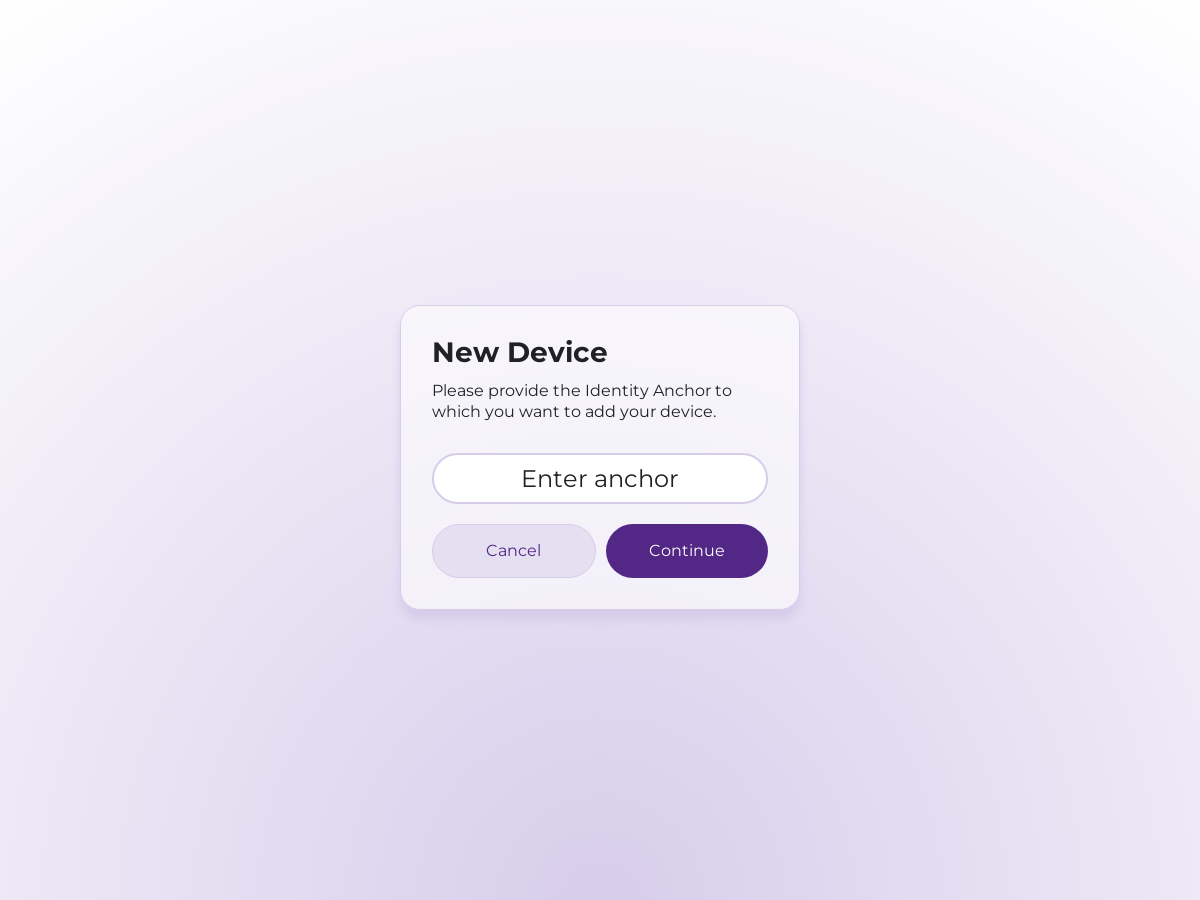
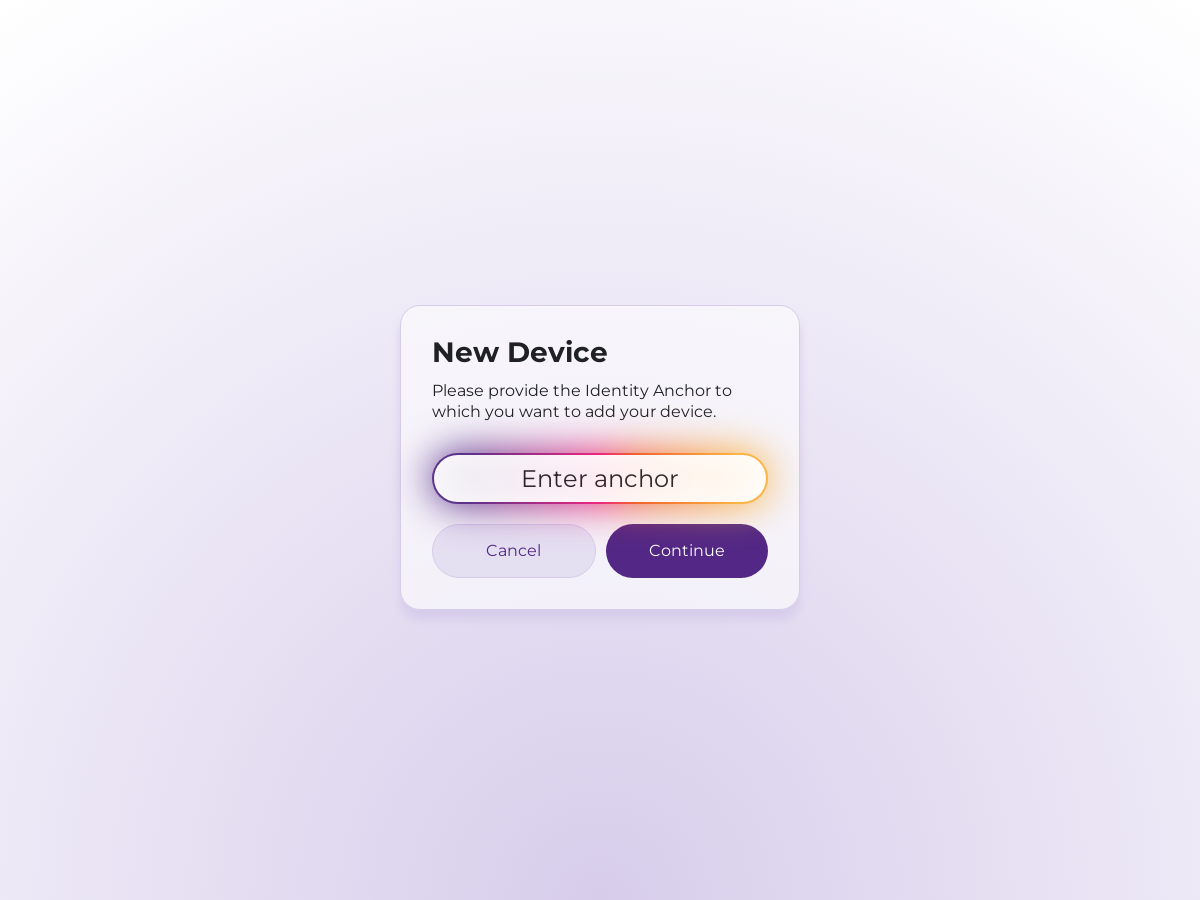
Bake .select() in anchor input (#956)
* Bake .select() in anchor input

This makes the `anchorInput` component call `.select()` on itself when
mounted in the DOM, so that callers do not have to do it themselves.

* 🤖 Selenium screenshots auto-update

* Check that node isConnected

Changed region(s): [[0.3392, 0.4667, 0.6783, 0.5911]]

diff --git a/src/frontend/src/components/anchorInput.ts b/src/frontend/src/components/anchorInput.ts
@@ -1,6 +1,7 @@
 import { html, TemplateResult } from "lit-html";
 import { withRef } from "../utils/utils";
 import { createRef, ref, Ref } from "lit-html/directives/ref.js";
+import { DirectiveResult } from "lit-html/directive.js";
 import { parseUserNumber } from "../utils/userNumber";
 
 /** A component for inputting an anchor number */
@@ -83,10 +84,18 @@ export const mkAnchorInput = (props: {
     return result;
   };
 
+  // Select the input when the component is rendered (and value is empty)
+  const selectInput = (elem: Element): void => {
+    if (elem instanceof HTMLInputElement && elem.value === "") {
+      elem.select();
+    }
+  };
+
   const template = html` <div class="l-stack c-input--anchor">
     <label class="c-input--anchor__wrap" aria-label="Identity Anchor">
       <input
         ${ref(userNumberInput)}
+        ${mount(selectInput)}
         type="text"
         id="${props.inputId}"
         class="c-input c-input--vip"
@@ -140,3 +149,40 @@ const inputFilter = (inputFilter: (c: string) => boolean, onBad: () => void) =>
       }
     }
   };
+
+/* A lit-html directive that performs an action when the element is added
+ * to the DOM.
+ *
+ * Note: there are no guarantees that the callback will be called as the
+ * implementation relies on internal "lit-html" behavior. No critical behavior
+ * should depend on this.
+ */
+const mount = (callback: (elem: Element) => void): DirectiveResult =>
+  ref((e: Element | undefined) => {
+    if (e !== undefined) {
+      // This works by observing the entire document for mutations, under
+      // the assumption that the first DOM mutation to happen after the element
+      // was created is inserting the element (or its parent) in the DOM. This
+      // happens in practice but may change depending on what lit-html does.
+      //
+      // Note: The reason why we only observe exactly one mutation and then
+      // disconnect is to avoid leaking the observer to keep observing the
+      // DOM if the element was created but never mounted.
+      //
+      // Note: it would be much easier to use the "DOMNodeInsertedIntoDocument"
+      // event on the element itself, but the API is deprecated and Firefox
+      // does not support it.
+      const observer = new MutationObserver(() => {
+        try {
+          // check that the element is indeed in the DOM and call callback
+          if (e.isConnected) {
+            callback(e);
+          }
+        } finally {
+          observer.disconnect();
+        }
+      });
+
+      observer.observe(document, { childList: true, subtree: true });
+    }
+  });

diff --git a/src/frontend/src/flows/authenticate/index.ts b/src/frontend/src/flows/authenticate/index.ts
@@ -23,7 +23,6 @@ import { unreachable, withRef } from "../../utils/utils";
 
 type PageElements = {
   authorizeButton: Ref<HTMLButtonElement>;
-  userNumberInput: Ref<HTMLInputElement>;
   registerButton: Ref<HTMLLinkElement>;
 };
 
@@ -148,7 +147,6 @@ const pageContent = (
   return {
     template,
     authorizeButton,
-    userNumberInput: anchorInput.userNumberInput,
     registerButton,
   };
 };
@@ -226,7 +224,7 @@ const init = (
   userNumber?: bigint
 ): Promise<AuthSuccess> => {
   return new Promise((resolve) => {
-    const { authorizeButton, userNumberInput, registerButton } = displayPage(
+    const { authorizeButton, registerButton } = displayPage(
       connection,
       authContext.requestOrigin,
       async (userNumber) => {
@@ -244,8 +242,6 @@ const init = (
     // only focus on the button if the anchor is set and was previously used successfully (i.e. is in local storage)
     if (userNumber !== undefined && userNumber === getUserNumber()) {
       withRef(authorizeButton, (authorizeButton) => authorizeButton.focus());
-    } else {
-      withRef(userNumberInput, (userNumberInput) => userNumberInput.select());
     }
 
     // Resolve either on successful authentication or after registration

diff --git a/src/frontend/src/flows/promptUserNumber.ts b/src/frontend/src/flows/promptUserNumber.ts
@@ -1,13 +1,12 @@
 import { html, render, TemplateResult } from "lit-html";
 import { Ref, ref, createRef } from "lit-html/directives/ref.js";
-import { withRef } from "../utils/utils";
 import { mkAnchorInput } from "../components/anchorInput";
 
 const pageContent = (
   title: string,
   userNumber: bigint | null,
   callbacks: { onContinue: (ret: bigint) => void; onCancel: () => void }
-): { template: TemplateResult; userNumberInput: Ref<HTMLInputElement> } => {
+): { template: TemplateResult } => {
   const userNumberContinue: Ref<HTMLButtonElement> = createRef();
   const anchorInput = mkAnchorInput({
     inputId: "userNumberInput",
@@ -44,7 +43,7 @@ const pageContent = (
     </div>
   `;
 
-  return { ...anchorInput, template };
+  return { template };
 };
 
 export const promptUserNumber = async (
@@ -58,8 +57,4 @@ export const promptUserNumber = async (
       onCancel: () => resolve(null),
     });
     render(content.template, container);
-    const { userNumberInput } = content;
-
-    // always select the input
-    withRef(userNumberInput, (userNumberInput) => userNumberInput.select());
   });

diff --git a/src/frontend/src/flows/login/unknownAnchor.ts b/src/frontend/src/flows/login/unknownAnchor.ts
@@ -11,7 +11,6 @@ import { useRecovery } from "../recovery/useRecovery";
 import { apiResultToLoginFlowResult, LoginFlowResult } from "./flowResult";
 import { addRemoteDevice } from "../addDevice/welcomeView";
 import { registerIfAllowed } from "../../utils/registerAllowedCheck";
-import { withRef } from "../../utils/utils";
 
 const pageContent = (props: {
   onContinue: (res: bigint) => void;
@@ -75,10 +74,6 @@ export const loginUnknownAnchor = async (
       onContinue: (userNumber) => resolve(doLogin(userNumber, connection)),
     });
     render(content.template, container);
-    // always select the input
-    withRef(content.userNumberInput, (userNumberInput) =>
-      userNumberInput.select()
-    );
     initLinkDevice(connection);
     initRegister(connection, resolve, reject);
     initRecovery(connection);
